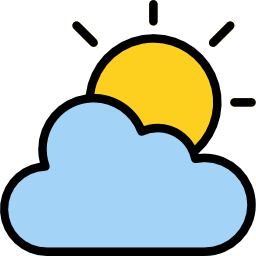
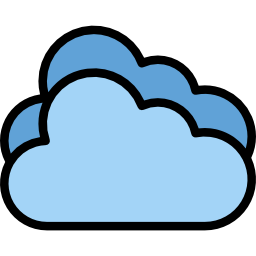
added function for the right images, not all descriptions are covered

diff --git a/dist/main.js b/dist/main.js
@@ -36,7 +36,7 @@ eval("__webpack_require__.r(__webpack_exports__);\n/* harmony export */ __webpac
   \***************************/
 /***/ ((__unused_webpack_module, __webpack_exports__, __webpack_require__) => {
 
-eval("__webpack_require__.r(__webpack_exports__);\n/* harmony export */ __webpack_require__.d(__webpack_exports__, {\n/* harmony export */   \"renderCards\": () => (/* binding */ renderCards)\n/* harmony export */ });\n/* harmony import */ var _cards_js__WEBPACK_IMPORTED_MODULE_0__ = __webpack_require__(/*! ./cards.js */ \"./src/modules/cards.js\");\n/* harmony import */ var _weatherdata_js__WEBPACK_IMPORTED_MODULE_1__ = __webpack_require__(/*! ./weatherdata.js */ \"./src/modules/weatherdata.js\");\n\r\n\r\n\r\nfunction renderCards() {\r\n  const cardAreaDiv = document.querySelector(\"[data-card-area]\");\r\n  cardAreaDiv.innerHTML = \"\";\r\n  for (let cardObject of _cards_js__WEBPACK_IMPORTED_MODULE_0__.cardObjects) {\r\n    createCard(cardObject, cardAreaDiv);\r\n  }\r\n}\r\n\r\nfunction appendChildrenToParent(parent, ...args) {\r\n  for (let child of args) {\r\n    parent.appendChild(child);\r\n  }\r\n}\r\n\r\nfunction removeCardFromDom(index) {\r\n  const cardList = document.querySelectorAll(\".weather-card\");\r\n\r\n  for (let card of cardList) {\r\n    if (card.dataset.index == index) {\r\n      card.parentNode.removeChild(card);\r\n\r\n      for (let cardObject of _cards_js__WEBPACK_IMPORTED_MODULE_0__.cardObjects) {\r\n        if (card.childNodes[0].childNodes[0].innerText == cardObject.cityName) {\r\n          let indexOfObjectToBeRomoved = _cards_js__WEBPACK_IMPORTED_MODULE_0__.cardObjects.indexOf(cardObject);\r\n          _cards_js__WEBPACK_IMPORTED_MODULE_0__.cardObjects.splice(indexOfObjectToBeRomoved, 1);\r\n          _weatherdata_js__WEBPACK_IMPORTED_MODULE_1__.weatherDataList.splice(indexOfObjectToBeRomoved, 1);\r\n        }\r\n      }\r\n    }\r\n  }\r\n\r\n  renderCards();\r\n}\r\n\r\nfunction createCard(cardObject, cardAreaDiv) {\r\n  // createElements();\r\n  // addClassesToElements();\r\n  // addSourcesToImages();\r\n  // appendAllChildrenToParents(cardAreaDiv);\r\n  // addTextContent(cardObject);\r\n\r\n  const weatherCardDiv = document.createElement(\"div\");\r\n  const cardTitleDiv = document.createElement(\"div\");\r\n  const cityNameDiv = document.createElement(\"div\");\r\n  const deleteImgDiv = document.createElement(\"div\");\r\n  const deleteImg = document.createElement(\"img\");\r\n  const weatherImg = document.createElement(\"img\");\r\n  const temperatureDiv = document.createElement(\"div\");\r\n  const descriptionDiv = document.createElement(\"div\");\r\n  const locationDiv = document.createElement(\"div\");\r\n  const cardLastRowDiv = document.createElement(\"div\");\r\n  const tempFeelDiv = document.createElement(\"div\");\r\n  const tempFeelIcon = document.createElement(\"i\");\r\n  const feelsLikeDiv = document.createElement(\"div\");\r\n  const feelsLikeNumberDiv = document.createElement(\"div\");\r\n  const feelsLikeTextDiv = document.createElement(\"div\");\r\n  const humidityDiv = document.createElement(\"div\");\r\n  const humidityIcon = document.createElement(\"i\");\r\n  const humidityDescDiv = document.createElement(\"div\");\r\n  const humidityNumberDiv = document.createElement(\"div\");\r\n  const humidityTextDiv = document.createElement(\"div\");\r\n\r\n  weatherCardDiv.classList.add(\"weather-card\");\r\n  cardTitleDiv.classList.add(\"card-title\");\r\n  cityNameDiv.classList.add(\"city-name\");\r\n  deleteImgDiv.classList.add(\"delete-image-div\");\r\n\r\n  temperatureDiv.classList.add(\"temperature\");\r\n  descriptionDiv.classList.add(\"description\");\r\n  locationDiv.classList.add(\"location\");\r\n  cardLastRowDiv.classList.add(\"card-last-row\");\r\n  tempFeelDiv.classList.add(\"temp-feel\");\r\n  tempFeelIcon.classList.add(\"fa-solid\");\r\n  tempFeelIcon.classList.add(\"fa-temperature-half\");\r\n  feelsLikeDiv.classList.add(\"feels-like\");\r\n  humidityDiv.classList.add(\"humidity\");\r\n  humidityIcon.classList.add(\"fa-solid\");\r\n  humidityIcon.classList.add(\"fa-droplet\");\r\n\r\n  deleteImg.src = \"/weather/src/pictures/delete-button.png\";\r\n  weatherImg.src = \"/weather/src/pictures/002-cloudy.png\";\r\n\r\n  let randomIndex = Math.floor(Math.random() * 1000000);\r\n  weatherCardDiv.setAttribute(\"data-index\", randomIndex);\r\n\r\n  deleteImg.addEventListener(\"click\", (e) => {\r\n    removeCardFromDom(randomIndex);\r\n  });\r\n\r\n  cardAreaDiv.appendChild(weatherCardDiv);\r\n  deleteImgDiv.appendChild(deleteImg);\r\n  appendChildrenToParent(\r\n    weatherCardDiv,\r\n    cardTitleDiv,\r\n    weatherImg,\r\n    temperatureDiv,\r\n    descriptionDiv,\r\n    locationDiv,\r\n    cardLastRowDiv\r\n  );\r\n  appendChildrenToParent(cardTitleDiv, cityNameDiv, deleteImgDiv);\r\n  appendChildrenToParent(cardLastRowDiv, tempFeelDiv, humidityDiv);\r\n  appendChildrenToParent(tempFeelDiv, tempFeelIcon, feelsLikeDiv);\r\n  appendChildrenToParent(feelsLikeDiv, feelsLikeNumberDiv, feelsLikeTextDiv);\r\n  appendChildrenToParent(humidityDiv, humidityIcon, humidityDescDiv);\r\n  appendChildrenToParent(humidityDescDiv, humidityNumberDiv, humidityTextDiv);\r\n\r\n  cityNameDiv.innerText = cardObject.cityName;\r\n  temperatureDiv.innerText = cardObject.temp + \"° C\";\r\n  descriptionDiv.innerText = cardObject.description;\r\n  locationDiv.innerText = cardObject.cityName + \", \" + cardObject.country;\r\n  feelsLikeNumberDiv.innerText = cardObject.feelsLike + \"° C\";\r\n  feelsLikeTextDiv.innerText = \"Feels like\";\r\n  humidityNumberDiv.innerText = cardObject.humidity + \"%\";\r\n  humidityTextDiv.innerText = \"Humidity\";\r\n}\r\n\r\n\r\n\n\n//# sourceURL=webpack://weather/./src/modules/ui.js?");
+eval("__webpack_require__.r(__webpack_exports__);\n/* harmony export */ __webpack_require__.d(__webpack_exports__, {\n/* harmony export */   \"renderCards\": () => (/* binding */ renderCards)\n/* harmony export */ });\n/* harmony import */ var _cards_js__WEBPACK_IMPORTED_MODULE_0__ = __webpack_require__(/*! ./cards.js */ \"./src/modules/cards.js\");\n/* harmony import */ var _weatherdata_js__WEBPACK_IMPORTED_MODULE_1__ = __webpack_require__(/*! ./weatherdata.js */ \"./src/modules/weatherdata.js\");\n\r\n\r\n\r\nfunction renderCards() {\r\n  const cardAreaDiv = document.querySelector(\"[data-card-area]\");\r\n  cardAreaDiv.innerHTML = \"\";\r\n  for (let cardObject of _cards_js__WEBPACK_IMPORTED_MODULE_0__.cardObjects) {\r\n    createCard(cardObject, cardAreaDiv);\r\n  }\r\n}\r\n\r\nfunction appendChildrenToParent(parent, ...args) {\r\n  for (let child of args) {\r\n    parent.appendChild(child);\r\n  }\r\n}\r\n\r\nfunction removeCardFromDom(index) {\r\n  const cardList = document.querySelectorAll(\".weather-card\");\r\n\r\n  for (let card of cardList) {\r\n    if (card.dataset.index == index) {\r\n      card.parentNode.removeChild(card);\r\n\r\n      for (let cardObject of _cards_js__WEBPACK_IMPORTED_MODULE_0__.cardObjects) {\r\n        if (card.childNodes[0].childNodes[0].innerText == cardObject.cityName) {\r\n          let indexOfObjectToBeRomoved = _cards_js__WEBPACK_IMPORTED_MODULE_0__.cardObjects.indexOf(cardObject);\r\n          _cards_js__WEBPACK_IMPORTED_MODULE_0__.cardObjects.splice(indexOfObjectToBeRomoved, 1);\r\n          _weatherdata_js__WEBPACK_IMPORTED_MODULE_1__.weatherDataList.splice(indexOfObjectToBeRomoved, 1);\r\n        }\r\n      }\r\n    }\r\n  }\r\n\r\n  renderCards();\r\n}\r\n\r\nfunction getFittingImage(desc) {\r\n  console.log(desc);\r\n  switch (desc) {\r\n    case \"clear sky\":\r\n      return \"/weather/src/pictures/001-sun.png\";\r\n\r\n    case \"few clouds\":\r\n      return \"/weather/src/pictures/002-cloudy.png\";\r\n\r\n    case \"scattered clouds\":\r\n      return \"/weather/src/pictures/003-cloudy.png\";\r\n\r\n    case \"broken clouds\":\r\n      return \"/weather/src/pictures/009-broken.png\";\r\n\r\n    case \"shower rain\":\r\n      return \"/weather/src/pictures/004-rainy.png\";\r\n\r\n    case \"rain\":\r\n      return \"/weather/src/pictures/005-rainy-1.png\";\r\n\r\n    case \"thunderstorm\":\r\n      return \"/weather/src/pictures/006-storm.png\";\r\n\r\n    case \"snow\":\r\n      return \"/weather/src/pictures/007-snowflake.png\";\r\n\r\n    case \"mist\":\r\n      return \"/weather/src/pictures/008-windy.png\";\r\n\r\n    default:\r\n      return \"/weather/src/pictures/warm.png\";\r\n  }\r\n}\r\n\r\nfunction createCard(cardObject, cardAreaDiv) {\r\n  // createElements();\r\n  // addClassesToElements();\r\n  // addSourcesToImages();\r\n  // appendAllChildrenToParents(cardAreaDiv);\r\n  // addTextContent(cardObject);\r\n\r\n  const weatherCardDiv = document.createElement(\"div\");\r\n  const cardTitleDiv = document.createElement(\"div\");\r\n  const cityNameDiv = document.createElement(\"div\");\r\n  const deleteImgDiv = document.createElement(\"div\");\r\n  const deleteImg = document.createElement(\"img\");\r\n  const weatherImg = document.createElement(\"img\");\r\n  const temperatureDiv = document.createElement(\"div\");\r\n  const descriptionDiv = document.createElement(\"div\");\r\n  const locationDiv = document.createElement(\"div\");\r\n  const cardLastRowDiv = document.createElement(\"div\");\r\n  const tempFeelDiv = document.createElement(\"div\");\r\n  const tempFeelIcon = document.createElement(\"i\");\r\n  const feelsLikeDiv = document.createElement(\"div\");\r\n  const feelsLikeNumberDiv = document.createElement(\"div\");\r\n  const feelsLikeTextDiv = document.createElement(\"div\");\r\n  const humidityDiv = document.createElement(\"div\");\r\n  const humidityIcon = document.createElement(\"i\");\r\n  const humidityDescDiv = document.createElement(\"div\");\r\n  const humidityNumberDiv = document.createElement(\"div\");\r\n  const humidityTextDiv = document.createElement(\"div\");\r\n\r\n  weatherCardDiv.classList.add(\"weather-card\");\r\n  cardTitleDiv.classList.add(\"card-title\");\r\n  cityNameDiv.classList.add(\"city-name\");\r\n  deleteImgDiv.classList.add(\"delete-image-div\");\r\n\r\n  temperatureDiv.classList.add(\"temperature\");\r\n  descriptionDiv.classList.add(\"description\");\r\n  locationDiv.classList.add(\"location\");\r\n  cardLastRowDiv.classList.add(\"card-last-row\");\r\n  tempFeelDiv.classList.add(\"temp-feel\");\r\n  tempFeelIcon.classList.add(\"fa-solid\");\r\n  tempFeelIcon.classList.add(\"fa-temperature-half\");\r\n  feelsLikeDiv.classList.add(\"feels-like\");\r\n  humidityDiv.classList.add(\"humidity\");\r\n  humidityIcon.classList.add(\"fa-solid\");\r\n  humidityIcon.classList.add(\"fa-droplet\");\r\n\r\n  deleteImg.src = \"/weather/src/pictures/delete-button.png\";\r\n  weatherImg.src = getFittingImage(cardObject.description);\r\n\r\n  let randomIndex = Math.floor(Math.random() * 1000000);\r\n  weatherCardDiv.setAttribute(\"data-index\", randomIndex);\r\n\r\n  deleteImg.addEventListener(\"click\", (e) => {\r\n    removeCardFromDom(randomIndex);\r\n  });\r\n\r\n  cardAreaDiv.appendChild(weatherCardDiv);\r\n  deleteImgDiv.appendChild(deleteImg);\r\n  appendChildrenToParent(\r\n    weatherCardDiv,\r\n    cardTitleDiv,\r\n    weatherImg,\r\n    temperatureDiv,\r\n    descriptionDiv,\r\n    locationDiv,\r\n    cardLastRowDiv\r\n  );\r\n  appendChildrenToParent(cardTitleDiv, cityNameDiv, deleteImgDiv);\r\n  appendChildrenToParent(cardLastRowDiv, tempFeelDiv, humidityDiv);\r\n  appendChildrenToParent(tempFeelDiv, tempFeelIcon, feelsLikeDiv);\r\n  appendChildrenToParent(feelsLikeDiv, feelsLikeNumberDiv, feelsLikeTextDiv);\r\n  appendChildrenToParent(humidityDiv, humidityIcon, humidityDescDiv);\r\n  appendChildrenToParent(humidityDescDiv, humidityNumberDiv, humidityTextDiv);\r\n\r\n  cityNameDiv.innerText = cardObject.cityName;\r\n  temperatureDiv.innerText = cardObject.temp + \"° C\";\r\n  descriptionDiv.innerText = cardObject.description;\r\n  locationDiv.innerText = cardObject.cityName + \", \" + cardObject.country;\r\n  feelsLikeNumberDiv.innerText = cardObject.feelsLike + \"° C\";\r\n  feelsLikeTextDiv.innerText = \"Feels like\";\r\n  humidityNumberDiv.innerText = cardObject.humidity + \"%\";\r\n  humidityTextDiv.innerText = \"Humidity\";\r\n}\r\n\r\n\r\n\n\n//# sourceURL=webpack://weather/./src/modules/ui.js?");
 
 /***/ }),
 

diff --git a/src/modules/ui.js b/src/modules/ui.js
@@ -35,6 +35,41 @@ function removeCardFromDom(index) {
   renderCards();
 }
 
+function getFittingImage(desc) {
+  console.log(desc);
+  switch (desc) {
+    case "clear sky":
+      return "/weather/src/pictures/001-sun.png";
+
+    case "few clouds":
+      return "/weather/src/pictures/002-cloudy.png";
+
+    case "scattered clouds":
+      return "/weather/src/pictures/003-cloudy.png";
+
+    case "broken clouds":
+      return "/weather/src/pictures/009-broken.png";
+
+    case "shower rain":
+      return "/weather/src/pictures/004-rainy.png";
+
+    case "rain":
+      return "/weather/src/pictures/005-rainy-1.png";
+
+    case "thunderstorm":
+      return "/weather/src/pictures/006-storm.png";
+
+    case "snow":
+      return "/weather/src/pictures/007-snowflake.png";
+
+    case "mist":
+      return "/weather/src/pictures/008-windy.png";
+
+    default:
+      return "/weather/src/pictures/warm.png";
+  }
+}
+
 function createCard(cardObject, cardAreaDiv) {
   // createElements();
   // addClassesToElements();
@@ -81,7 +116,7 @@ function createCard(cardObject, cardAreaDiv) {
   humidityIcon.classList.add("fa-droplet");
 
   deleteImg.src = "/weather/src/pictures/delete-button.png";
-  weatherImg.src = "/weather/src/pictures/002-cloudy.png";
+  weatherImg.src = getFittingImage(cardObject.description);
 
   let randomIndex = Math.floor(Math.random() * 1000000);
   weatherCardDiv.setAttribute("data-index", randomIndex);
